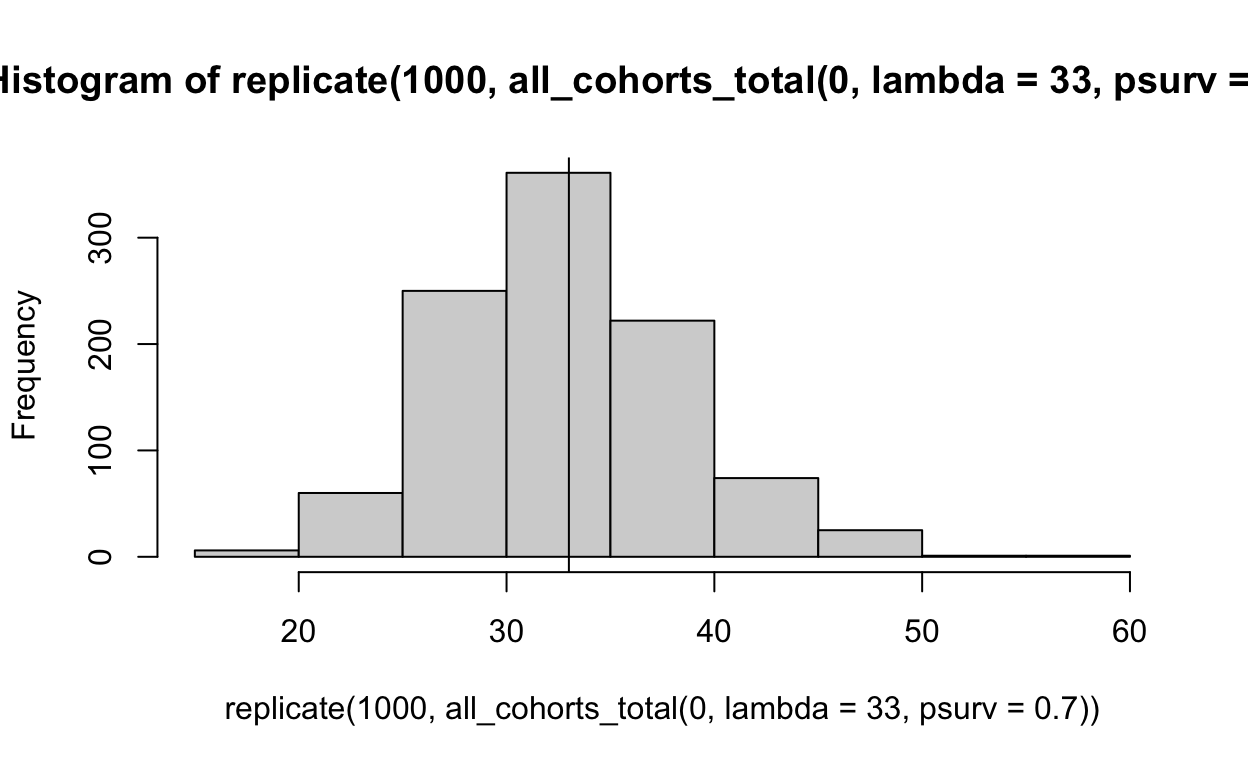
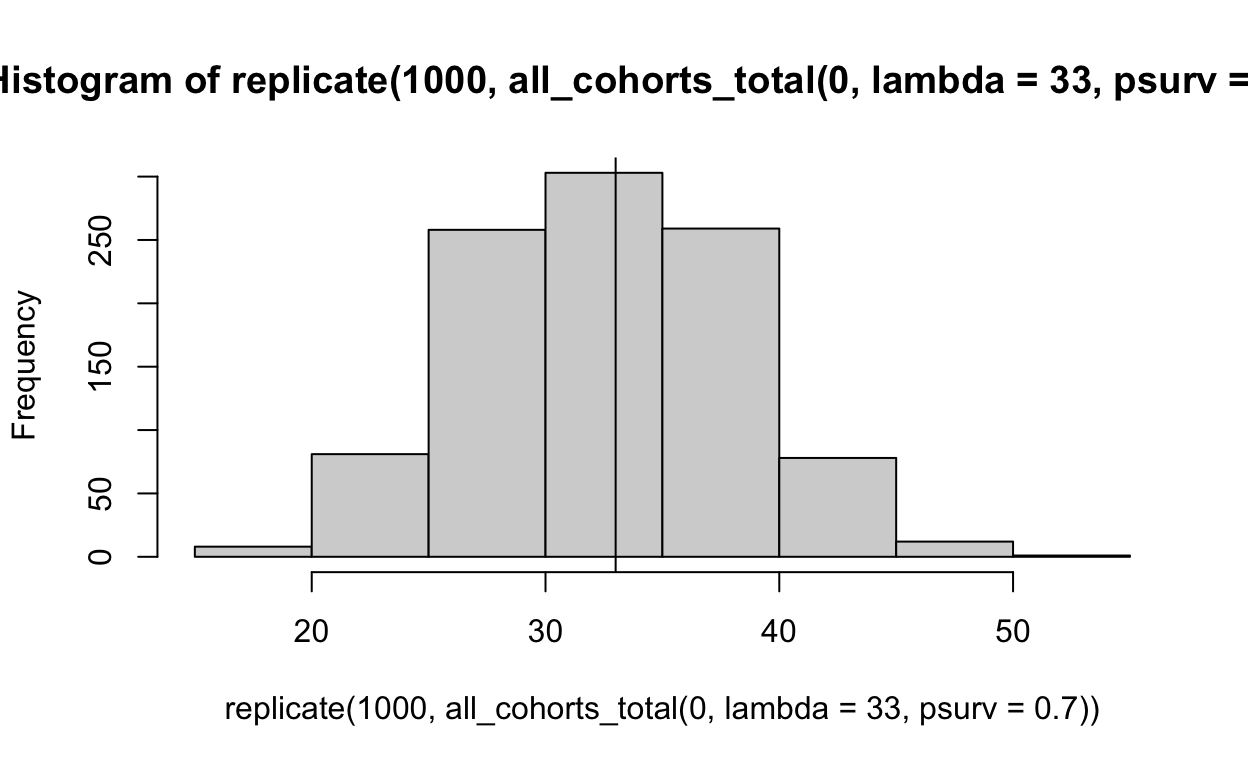
two part likelihood

diff --git a/_posts/2022-08-04-intercept-only-poisson-example/intercept-only-poisson-example.html b/_posts/2022-08-04-intercept-only-poisson-example/intercept-only-poisson-example.html
@@ -1615,19 +1615,19 @@ survive up to the present to get counted.</p>
 <span class='fu'>make_surviving_vec</span><span class='op'>(</span><span class='fl'>5</span>, <span class='fl'>20</span>, <span class='fl'>.92</span><span class='op'>)</span>
 </code></pre>
 </div>
-<pre><code>[1] 17 16 14 12  9  9</code></pre>
+<pre><code>[1] 20 19 19 19 19 16</code></pre>
 <div class="sourceCode">
 <pre class="sourceCode r"><code class="sourceCode r"><span class='fu'>make_surviving_vec</span><span class='op'>(</span><span class='fl'>2</span>, <span class='fl'>10</span>, <span class='fl'>.3</span><span class='op'>)</span>
 </code></pre>
 </div>
-<pre><code>[1] 10  6  2</code></pre>
+<pre><code>[1] 9 1 0</code></pre>
 <div class="sourceCode">
 <pre class="sourceCode r"><code class="sourceCode r"><span class='co'># so how many ultimately survive? -- just take the end of the vector</span>
 
 <span class='fu'>make_surviving_vec</span><span class='op'>(</span><span class='fl'>15</span>, <span class='fl'>20</span>, <span class='fl'>.92</span><span class='op'>)</span> |&gt; <span class='fu'><a href='https://rdrr.io/r/utils/head.html'>tail</a></span><span class='op'>(</span><span class='fl'>1</span><span class='op'>)</span>
 </code></pre>
 </div>
-<pre><code>[1] 5</code></pre>
+<pre><code>[1] 7</code></pre>
 <div class="sourceCode">
 <pre class="sourceCode r"><code class="sourceCode r"><span class='co'>### repeat this for every cohort produced in the t years:</span>
 
@@ -1708,7 +1708,27 @@ differences.</p>
 <p>It’s important to know if we are modelling <em>number of new
 recruits</em> or simply the number of small trees. This is an expression
 for the former. But if it is the latter, then you would I guess let t go
-to</p>
+to infinity. In this case the expression goes to:</p>
+<p><span class="math display">\[
+\text{recruits} = \lambda \times \frac{1}{1-p}
+\]</span></p>
+<p>the number of seedlings doesn’t start at 0 however, it starts at the
+number of seedlings which we last observed in this plot! except the
+first time.</p>
+<p>$$ <span class="math display">\[\begin{align}
+N_s &amp;\sim \text{Poisson}(\mu) \\
+
+\mu &amp; =
+\begin{cases}
+\lambda \frac{1}{1-p} \text{for } s = 0 \\
+N_{s-1} + \lambda \frac{1 - p^{\Delta t+1}}{1 - p} \text{for } s \gt0
+\end{cases}
+\end{align}\]</span> $$</p>
+<p>here <span class="math inline">\(s\)</span> is just an index to count
+which sampling we are at; <span class="math inline">\(s = 0\)</span>
+means the first sampling. For every sampling after the first, <span
+class="math inline">\(\Delta t\)</span> is the time between sampling
+<span class="math inline">\(s\)</span> and the previous sampling.</p>
 <div class="sourceCode" id="cb4"><pre
 class="sourceCode r distill-force-highlighting-css"><code class="sourceCode r"></code></pre></div>
 <!--radix_placeholder_article_footer-->

diff --git a/docs/posts/2022-08-04-intercept-only-poisson-example/index.html b/docs/posts/2022-08-04-intercept-only-poisson-example/index.html
@@ -2235,19 +2235,19 @@ survive up to the present to get counted.</p>
 <span class='fu'>make_surviving_vec</span><span class='op'>(</span><span class='fl'>5</span>, <span class='fl'>20</span>, <span class='fl'>.92</span><span class='op'>)</span>
 </code></pre>
 </div>
-<pre><code>[1] 17 16 14 12  9  9</code></pre>
+<pre><code>[1] 20 19 19 19 19 16</code></pre>
 <div class="sourceCode">
 <pre class="sourceCode r"><code class="sourceCode r"><span class='fu'>make_surviving_vec</span><span class='op'>(</span><span class='fl'>2</span>, <span class='fl'>10</span>, <span class='fl'>.3</span><span class='op'>)</span>
 </code></pre>
 </div>
-<pre><code>[1] 10  6  2</code></pre>
+<pre><code>[1] 9 1 0</code></pre>
 <div class="sourceCode">
 <pre class="sourceCode r"><code class="sourceCode r"><span class='co'># so how many ultimately survive? -- just take the end of the vector</span>
 
 <span class='fu'>make_surviving_vec</span><span class='op'>(</span><span class='fl'>15</span>, <span class='fl'>20</span>, <span class='fl'>.92</span><span class='op'>)</span> |&gt; <span class='fu'><a href='https://rdrr.io/r/utils/head.html'>tail</a></span><span class='op'>(</span><span class='fl'>1</span><span class='op'>)</span>
 </code></pre>
 </div>
-<pre><code>[1] 5</code></pre>
+<pre><code>[1] 7</code></pre>
 <div class="sourceCode">
 <pre class="sourceCode r"><code class="sourceCode r"><span class='co'>### repeat this for every cohort produced in the t years:</span>
 
@@ -2328,7 +2328,27 @@ differences.</p>
 <p>It’s important to know if we are modelling <em>number of new
 recruits</em> or simply the number of small trees. This is an expression
 for the former. But if it is the latter, then you would I guess let t go
-to</p>
+to infinity. In this case the expression goes to:</p>
+<p><span class="math display">\[
+\text{recruits} = \lambda \times \frac{1}{1-p}
+\]</span></p>
+<p>the number of seedlings doesn’t start at 0 however, it starts at the
+number of seedlings which we last observed in this plot! except the
+first time.</p>
+<p>$$ <span class="math display">\[\begin{align}
+N_s &amp;\sim \text{Poisson}(\mu) \\
+
+\mu &amp; =
+\begin{cases}
+\lambda \frac{1}{1-p} \text{for } s = 0 \\
+N_{s-1} + \lambda \frac{1 - p^{\Delta t+1}}{1 - p} \text{for } s \gt0
+\end{cases}
+\end{align}\]</span> $$</p>
+<p>here <span class="math inline">\(s\)</span> is just an index to count
+which sampling we are at; <span class="math inline">\(s = 0\)</span>
+means the first sampling. For every sampling after the first, <span
+class="math inline">\(\Delta t\)</span> is the time between sampling
+<span class="math inline">\(s\)</span> and the previous sampling.</p>
 <div class="sourceCode" id="cb4"><pre
 class="sourceCode r distill-force-highlighting-css"><code class="sourceCode r"></code></pre></div>
 <!--radix_placeholder_article_footer-->
